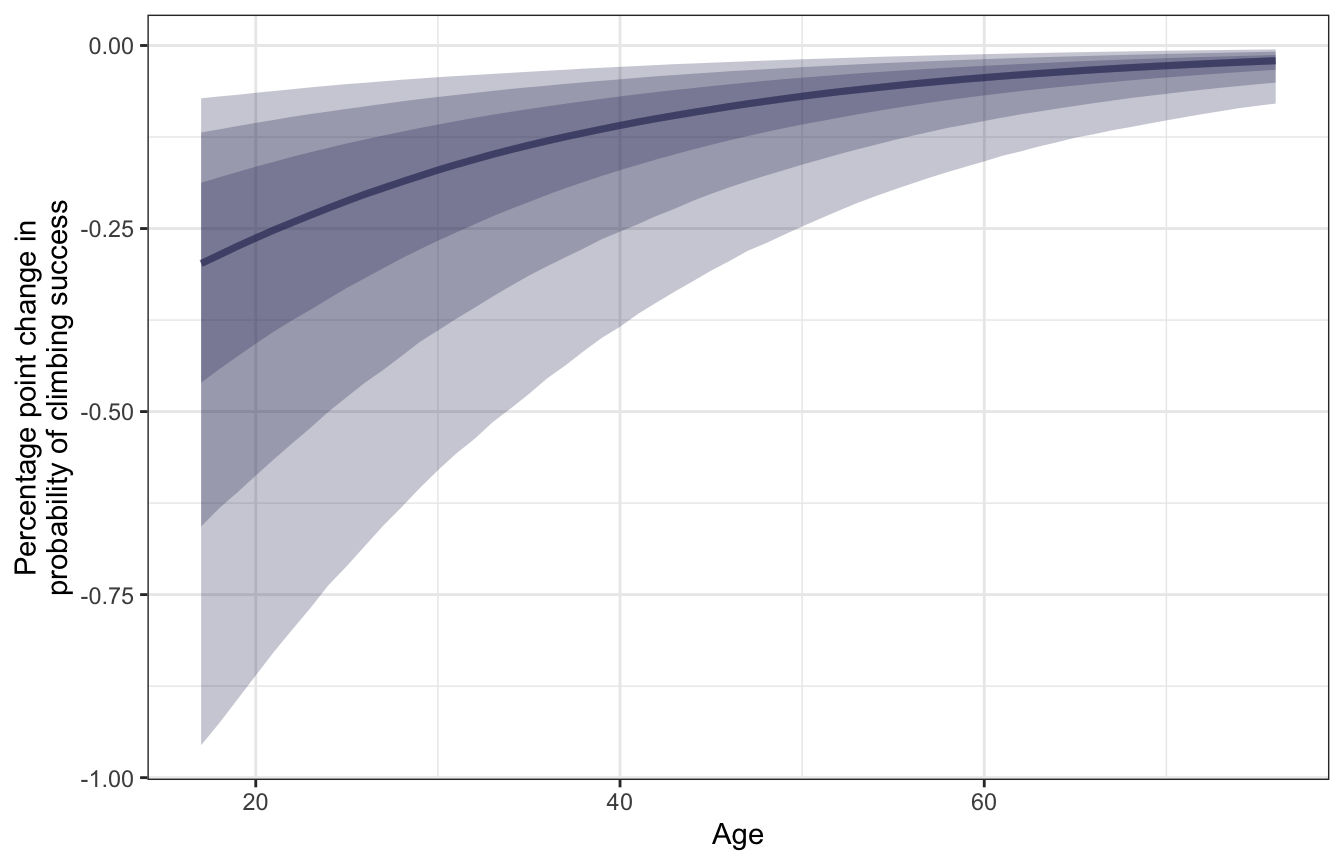
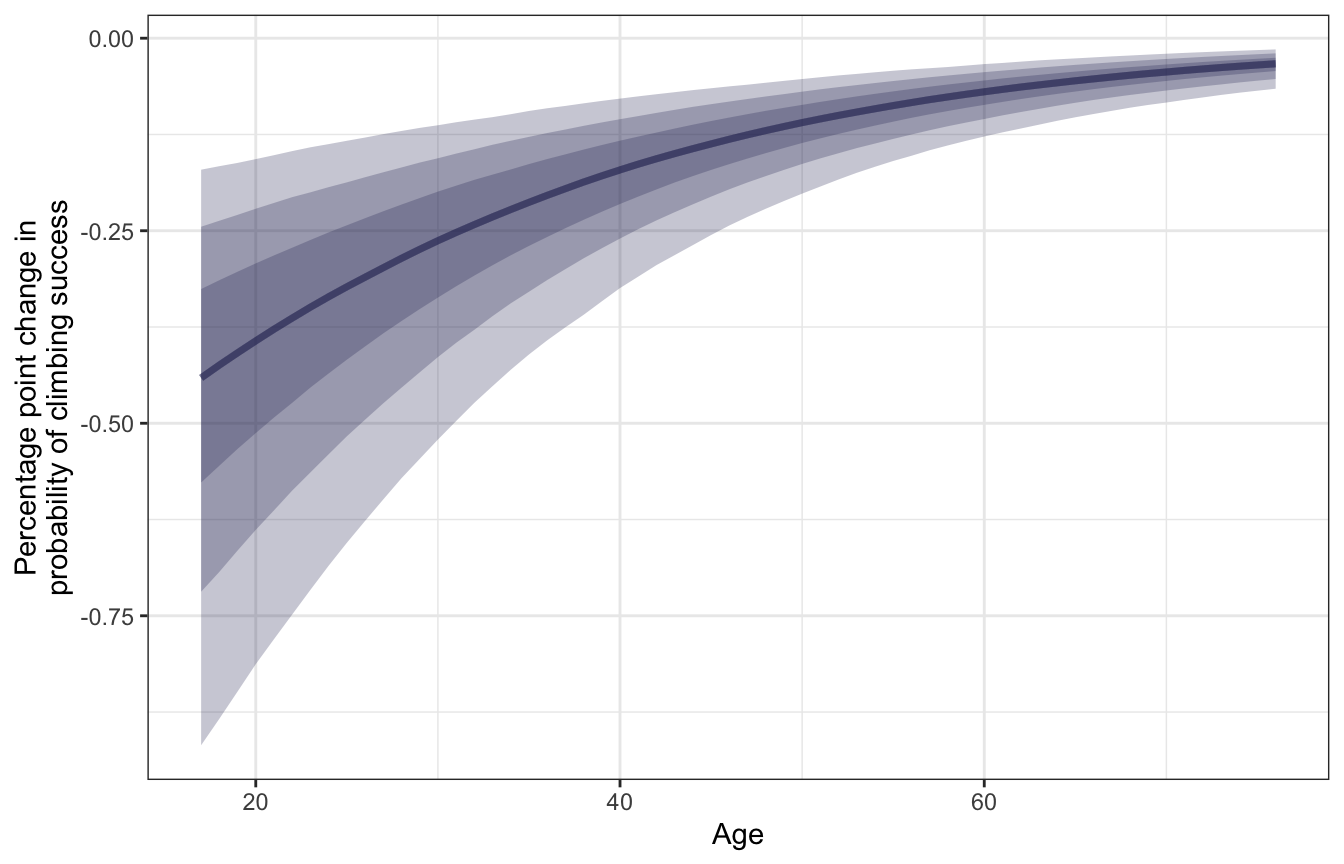
Built site for gh-pages

diff --git a/bayes-rules/18-chapter.html b/bayes-rules/18-chapter.html
@@ -736,7 +736,7 @@ b_{0_j} &amp;\sim \mathcal{N}(0, \sigma_0) &amp; \text{Team-specific offsets fro
 <span id="cb15-2"><a href="#cb15-2" aria-hidden="true" tabindex="-1"></a>  <span class="fu">marginaleffects</span>(<span class="at">newdata =</span> <span class="fu">datagrid</span>(<span class="at">age_c =</span> <span class="fu">seq</span>(<span class="dv">17</span>, <span class="dv">76</span>, <span class="at">by =</span> <span class="dv">1</span>) <span class="sc">-</span></span>
 <span id="cb15-3"><a href="#cb15-3" aria-hidden="true" tabindex="-1"></a>                                       unscaled_climbers<span class="sc">$</span>age_c<span class="sc">$</span>scaled_center),</span>
 <span id="cb15-4"><a href="#cb15-4" aria-hidden="true" tabindex="-1"></a>                  <span class="at">variables =</span> <span class="st">"age_c"</span>,</span>
-<span id="cb15-5"><a href="#cb15-5" aria-hidden="true" tabindex="-1"></a>                  <span class="at">type =</span> <span class="st">"response"</span>) <span class="sc">|&gt;</span></span>
+<span id="cb15-5"><a href="#cb15-5" aria-hidden="true" tabindex="-1"></a>                  <span class="at">type =</span> <span class="st">"response"</span>, <span class="at">re_formula =</span> <span class="cn">NA</span>) <span class="sc">|&gt;</span></span>
 <span id="cb15-6"><a href="#cb15-6" aria-hidden="true" tabindex="-1"></a>  <span class="fu">posteriordraws</span>() <span class="sc">|&gt;</span></span>
 <span id="cb15-7"><a href="#cb15-7" aria-hidden="true" tabindex="-1"></a>  <span class="fu">mutate</span>(<span class="at">age =</span> age_c <span class="sc">+</span> unscaled_climbers<span class="sc">$</span>age_c<span class="sc">$</span>scaled_center)</span>
 <span id="cb15-8"><a href="#cb15-8" aria-hidden="true" tabindex="-1"></a></span>
@@ -761,11 +761,11 @@ b_{0_j} &amp;\sim \mathcal{N}(0, \sigma_0) &amp; \text{Team-specific offsets fro
 <span id="cb16-8"><a href="#cb16-8" aria-hidden="true" tabindex="-1"></a><span class="do">## # A tibble: 3 × 4</span></span>
 <span id="cb16-9"><a href="#cb16-9" aria-hidden="true" tabindex="-1"></a><span class="do">##     age mean_slope conf.low conf.high</span></span>
 <span id="cb16-10"><a href="#cb16-10" aria-hidden="true" tabindex="-1"></a><span class="do">##   &lt;dbl&gt;      &lt;dbl&gt;    &lt;dbl&gt;     &lt;dbl&gt;</span></span>
-<span id="cb16-11"><a href="#cb16-11" aria-hidden="true" tabindex="-1"></a><span class="do">## 1    18    -0.339    -0.925   -0.0696</span></span>
-<span id="cb16-12"><a href="#cb16-12" aria-hidden="true" tabindex="-1"></a><span class="do">## 2    40    -0.134    -0.384   -0.0291</span></span>
-<span id="cb16-13"><a href="#cb16-13" aria-hidden="true" tabindex="-1"></a><span class="do">## 3    60    -0.0543   -0.158   -0.0118</span></span></code><button title="Copy to Clipboard" class="code-copy-button"><i class="bi"></i></button></pre></div>
+<span id="cb16-11"><a href="#cb16-11" aria-hidden="true" tabindex="-1"></a><span class="do">## 1    18    -0.449    -0.884   -0.166 </span></span>
+<span id="cb16-12"><a href="#cb16-12" aria-hidden="true" tabindex="-1"></a><span class="do">## 2    40    -0.179    -0.324   -0.0784</span></span>
+<span id="cb16-13"><a href="#cb16-13" aria-hidden="true" tabindex="-1"></a><span class="do">## 3    60    -0.0723   -0.128   -0.0336</span></span></code><button title="Copy to Clipboard" class="code-copy-button"><i class="bi"></i></button></pre></div>
 </div>
-<p>For a typical young climber (18 years old), a one-year increase in age is associated with a posterior mean -0.339 percentage point decrease in the probability of success. That’s a sizable drop! For a typical middle-aged climber (40 years old), getting older is associated with a smaller -0.134 percentage point drop in probability, while older climbers (60 years old) see an even smaller -0.054 percentage point decline. Age thus seems to matter the most for younger climbers—it doesn’t have an effect on the typical older climber.</p>
+<p>For a typical young climber (18 years old), a one-year increase in age is associated with a posterior mean -0.449 percentage point decrease in the probability of success. That’s a sizable drop! For a typical middle-aged climber (40 years old), getting older is associated with a smaller -0.179 percentage point drop in probability, while older climbers (60 years old) see an even smaller -0.072 percentage point decline. Age thus seems to matter the most for younger climbers—it doesn’t have an effect on the typical older climber.</p>
 </section>
 <section id="oxygen-beta_2" class="level5">
 <h5 class="anchored" data-anchor-id="oxygen-beta_2">Oxygen (<span class="math inline">\(\beta_2\)</span>)</h5>
@@ -1550,7 +1550,7 @@ r \sim&amp;\ \operatorname{Exponential}(1) &amp; \text{Prior for within-listing 
 <span id="cb56-2"><a href="#cb56-2" aria-hidden="true" tabindex="-1"></a>  <span class="fu">marginaleffects</span>(<span class="at">newdata =</span> <span class="fu">datagrid</span>(<span class="at">rating_c =</span> <span class="fu">seq</span>(<span class="fl">2.5</span>, <span class="dv">5</span>, <span class="at">by =</span> <span class="fl">0.5</span>) <span class="sc">-</span></span>
 <span id="cb56-3"><a href="#cb56-3" aria-hidden="true" tabindex="-1"></a>                                       unscaled_airbnb<span class="sc">$</span>rating_c<span class="sc">$</span>scaled_center),</span>
 <span id="cb56-4"><a href="#cb56-4" aria-hidden="true" tabindex="-1"></a>                  <span class="at">variables =</span> <span class="st">"rating_c"</span>,</span>
-<span id="cb56-5"><a href="#cb56-5" aria-hidden="true" tabindex="-1"></a>                  <span class="at">type =</span> <span class="st">"response"</span>) <span class="sc">|&gt;</span></span>
+<span id="cb56-5"><a href="#cb56-5" aria-hidden="true" tabindex="-1"></a>                  <span class="at">type =</span> <span class="st">"response"</span>, <span class="at">re_formula =</span> <span class="cn">NA</span>) <span class="sc">|&gt;</span></span>
 <span id="cb56-6"><a href="#cb56-6" aria-hidden="true" tabindex="-1"></a>  <span class="fu">posteriordraws</span>() <span class="sc">|&gt;</span></span>
 <span id="cb56-7"><a href="#cb56-7" aria-hidden="true" tabindex="-1"></a>  <span class="fu">mutate</span>(<span class="at">rating =</span> rating_c <span class="sc">+</span> unscaled_airbnb<span class="sc">$</span>rating_c<span class="sc">$</span>scaled_center)</span>
 <span id="cb56-8"><a href="#cb56-8" aria-hidden="true" tabindex="-1"></a></span>
@@ -1563,7 +1563,7 @@ r \sim&amp;\ \operatorname{Exponential}(1) &amp; \text{Prior for within-listing 
 <p><img src="18-chapter_files/figure-html/unnamed-chunk-55-1.png" class="img-fluid" width="672"></p>
 </div>
 </div>
-<p>The y-axis here is the slope of the line, not the predicted count of reviews. For a listing currently rated a 3, a one-unit change to a 4 is associated with an increase of <code>r</code>round(mfx_reviews_list<span class="math inline">\(x3\)</span>mean_slope, 2)` reviews; for a listing rated a 4, a one-unit change to a 5 is associated with a larger increase of 6.23 reviews.</p>
+<p>The y-axis here is the slope of the line, not the predicted count of reviews. For a listing currently rated a 3, a one-unit change to a 4 is associated with an increase of <code>r</code>round(mfx_reviews_list<span class="math inline">\(x3\)</span>mean_slope, 2)` reviews; for a listing rated a 4, a one-unit change to a 5 is associated with a larger increase of 5.51 reviews.</p>
 <div class="cell">
 <div class="sourceCode cell-code" id="cb57"><pre class="sourceCode r code-with-copy"><code class="sourceCode r"><span id="cb57-1"><a href="#cb57-1" aria-hidden="true" tabindex="-1"></a>mfx_reviews <span class="sc">|&gt;</span> </span>
 <span id="cb57-2"><a href="#cb57-2" aria-hidden="true" tabindex="-1"></a>  <span class="fu">filter</span>(rating <span class="sc">%in%</span> <span class="fu">c</span>(<span class="dv">3</span>, <span class="dv">4</span>)) <span class="sc">|&gt;</span> </span>
@@ -1574,8 +1574,8 @@ r \sim&amp;\ \operatorname{Exponential}(1) &amp; \text{Prior for within-listing 
 <span id="cb57-7"><a href="#cb57-7" aria-hidden="true" tabindex="-1"></a><span class="do">## # A tibble: 2 × 4</span></span>
 <span id="cb57-8"><a href="#cb57-8" aria-hidden="true" tabindex="-1"></a><span class="do">##   rating mean_slope conf.low conf.high</span></span>
 <span id="cb57-9"><a href="#cb57-9" aria-hidden="true" tabindex="-1"></a><span class="do">##    &lt;dbl&gt;      &lt;dbl&gt;    &lt;dbl&gt;     &lt;dbl&gt;</span></span>
-<span id="cb57-10"><a href="#cb57-10" aria-hidden="true" tabindex="-1"></a><span class="do">## 1      3       4.69     2.40      6.17</span></span>
-<span id="cb57-11"><a href="#cb57-11" aria-hidden="true" tabindex="-1"></a><span class="do">## 2      4       6.23     2.65      9.28</span></span></code><button title="Copy to Clipboard" class="code-copy-button"><i class="bi"></i></button></pre></div>
+<span id="cb57-10"><a href="#cb57-10" aria-hidden="true" tabindex="-1"></a><span class="do">## 1      3       4.15     2.11      5.44</span></span>
+<span id="cb57-11"><a href="#cb57-11" aria-hidden="true" tabindex="-1"></a><span class="do">## 2      4       5.51     2.33      8.22</span></span></code><button title="Copy to Clipboard" class="code-copy-button"><i class="bi"></i></button></pre></div>
 </div>
 </section>
 <section id="room-type-beta_2-and-beta_3" class="level5">
